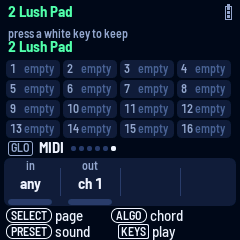
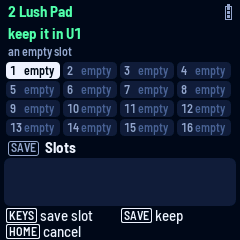
Saving to a slot in two steps: SAVE held opens the slots (the keys lit, the pick blinking), a white key picks, SAVE keeps, any other button cancels; the manual

diff --git a/app/ui.c b/app/ui.c
@@ -110,7 +110,8 @@ static struct {
     uint32_t touch_until;
     uint32_t sig[6];                     /* each band's last drawn content (a hash): drawn again only when it changed */
     uint32_t anim;                       /* the picture's last frame */
-    uint8_t save_used;                   /* SAVE held: a key took it (no save on its release) */
+    uint8_t save_used;                   /* SAVE's press already did something (no settings save on its release) */
+    uint8_t saving, save_pick;           /* the slots open (SAVE held a moment): the slot picked, 0..15 */
     uint32_t note_t;                     /* when a key last started a chord (the delay's picture) */
     uint8_t looking;                     /* REC: the Bluetooth devices' scan */
 } ui;
@@ -531,6 +532,10 @@ static void ble_device_say(void)
 
 static void button_down(int b)
 {
+    if (ui.saving && b != B_SAVE) {        /* the slots open: any other button closes them, nothing kept */
+        ui.saving = 0;
+        app_say("NOT SAVED", "");
+    }
     switch (b) {
     case B_HOME: case B_SEQ: case B_EDIT: case B_ENV: case B_LFO: case B_FX: case B_ARP: case B_GLO:
         page_button(b);
@@ -551,7 +556,14 @@ static void button_down(int b)
         break;
     case B_OCTDN: octave_step(-1); break;
     case B_OCTUP: octave_step(1); break;
-    case B_SAVE: ui.save_used = 0; break;
+    case B_SAVE:
+        ui.save_used = 0;
+        if (ui.saving) {                  /* the slots open: SAVE keeps the sound in the one picked */
+            ui.saving = 0;
+            ui.save_used = 1;
+            user_save(ui.save_pick);
+        }
+        break;
     default: break;
     }
 }
@@ -585,9 +597,14 @@ static void keys_input(void)
         uint32_t bit = 1u << k;
         if ((keys & bit) && !(ui.keys & bit)) {
             int note = key_note((int)k), v = set.velo ? (int)touch_vel(k) : 100, w = white_index((int)k);
-            if ((ui.btn >> B_SAVE & 1u) && w >= 0) {   /* SAVE held + white key: keep the sound there */
-                ui.save_used = 1;
-                user_save(w);
+            if (ui.saving) {               /* the slots open: a white key picks its slot (the keys don't play) */
+                if (w >= 0) {
+                    char t[8];
+                    ui.save_pick = (uint8_t)w;
+                    t[0] = 0;
+                    num_i(w + 1, s_cat(t, "U"));
+                    app_say("SLOT", t);
+                }
                 ui.key_note[k] = 0xFF;
                 continue;
             }
@@ -634,6 +651,18 @@ static void input(void)
         }
     }
     ui.btn = btn;
+    if (!ui.saving && (btn >> B_SAVE & 1u) && ui.btn_t[B_SAVE] && now - ui.btn_t[B_SAVE] >= 400u && !ui.save_used) {
+        ui.saving = 1;                     /* SAVE held: the slots open, on the sound's own or the first empty one */
+        ui.save_used = 1;                  /* (letting go of SAVE now saves nothing) */
+        ui.save_pick = 0;
+        if (set.sound >= SND_USER)
+            ui.save_pick = (uint8_t)(set.sound - SND_USER);
+        else
+            for (int i = NUSER - 1; i >= 0; i--)
+                if (!user_used(i))
+                    ui.save_pick = (uint8_t)i;
+        app_say("PICK A SLOT", "then press SAVE");
+    }
     /* a button held alone a second: its card (REC: Bluetooth off or on) */
     for (int b = 0; b < NB; b++)
         if ((btn >> b & 1u) && ui.btn_t[b] && now - ui.btn_t[b] >= 1000u && !ui.keys && !(btn & ~(1u << b))) {
@@ -726,8 +755,19 @@ static void input(void)
             if (n >= 0 && k >= 0 && k < NKEYS && chd_level[i] > 20)
                 lk |= 1u << k;
         }
+        if (ui.saving) {                   /* the slots: lit where a sound is kept, the one picked blinking */
+            static const uint8_t WK[16] = PLAT_WHITE_KEYS;
+            lk = 0;
+            for (int i = 0; i < NUSER; i++)
+                if ((user_used(i) && i != ui.save_pick) || (i == ui.save_pick && (now / 150u) % 2u == 0u))
+                    lk |= 1u << WK[i];
+            lb = 1u << B_SAVE;
+            plat_glow(0);
+            plat_leds(lb, lk);
+        } else {
         plat_glow(set.lights == 0);
         plat_leds(set.lights == 2 ? 0u : lb, set.lights == 2 ? ui.keys : lk);
+        }
     }
 }
 
@@ -845,10 +885,11 @@ static void draw_header(void)
 /* the title strip, over the knobs: the button, the page's name, a dot for each of the button's pages (this one lit) */
 static void draw_title(void)
 {
-    const char *bn = ui.list ? "SEL" : BTN_LABEL[PAGE[ui.page].btn];
-    int first, n = page_n(PAGE[ui.page].btn, &first);
+    const char *bn = ui.saving ? "SAVE" : ui.list ? "SEL" : BTN_LABEL[PAGE[ui.page].btn];
+    const char *pn = ui.saving ? "Slots" : PAGE[ui.page].name;
+    int first, n = ui.saving ? 0 : page_n(PAGE[ui.page].btn, &first);
     int32_t w = text_w(&FONT_XS, bn) + 6, x;
-    uint32_t h = hash_u(0x7171u, (uint32_t)ui.page | (uint32_t)ui.list << 8);
+    uint32_t h = hash_u(0x7171u, (uint32_t)ui.page | (uint32_t)ui.list << 8 | (uint32_t)ui.saving << 10);
     if (h == ui.sig[3])
         return;
     ui.sig[3] = h;
@@ -856,7 +897,7 @@ static void draw_title(void)
     cv_round(8, 1, w, 15, 3, K_DIM);
     cv_round(9, 2, w - 2, 13, 2, K_BG);
     cv_text(11, cap_y(1, 15, &FONT_XS) - 1, &FONT_XS, bn, K_DIM);
-    x = cv_text(8 + w + 6, cap_y(0, TTL_H, &FONT_B) - 1, &FONT_B, PAGE[ui.page].name, K_TEXT) + 7;
+    x = cv_text(8 + w + 6, cap_y(0, TTL_H, &FONT_B) - 1, &FONT_B, pn, K_TEXT) + 7;
     for (int i = 0; n > 1 && i < n; i++)
         cv_round(x + i * 8, 6, 5, 5, 2, first + i == ui.page ? K_TEXT : K_LINE);
     cv_blit(0, TTL_Y);
@@ -868,7 +909,17 @@ static void draw_knobs(void)
     char v[4][24];
     const char *nm[4];
     int hot = plat_ms() < ui.touch_until ? ui.touched : -1, lo, hi;
-    uint32_t h = hash_u(2166136261u, (uint32_t)ui.page | (uint32_t)(hot + 1) << 8 | (uint32_t)ui.voice << 16);
+    uint32_t h = hash_u(2166136261u, (uint32_t)ui.page | (uint32_t)(hot + 1) << 8 | (uint32_t)ui.voice << 16 |
+                                     (uint32_t)ui.saving << 24);
+    if (ui.saving) {                       /* (the slots: the knobs set nothing, their panel empty) */
+        if (h != ui.sig[2]) {
+            ui.sig[2] = h;
+            cv_begin(240, KNB_H, K_BG);
+            cv_round(4, 0, 232, KNB_H - 2, 6, K_PANEL);
+            cv_blit(0, KNB_Y);
+        }
+        return;
+    }
     for (int i = 0; i < 4; i++) {
         int k = PAGE[ui.page].k[i];
         nm[i] = k == K_NONE ? 0 : knob_name(k);
@@ -947,11 +998,15 @@ static void draw_footer(void)
 {
     const char *l1[4], *l2[4];
     int pr = PAGE[ui.page].preset;
-    uint32_t h = hash_u(2166136261u, (uint32_t)ui.page | (uint32_t)ui.list << 8 | (uint32_t)(ui.card != 0) << 9);
+    uint32_t h = hash_u(2166136261u, (uint32_t)ui.page | (uint32_t)ui.list << 8 | (uint32_t)(ui.card != 0) << 9 |
+                                     (uint32_t)ui.saving << 10);
     if (h == ui.sig[4])
         return;
     ui.sig[4] = h;
-    if (ui.list == 2) {
+    if (ui.saving) {
+        l1[0] = "KEYS", l1[1] = "save slot", l1[2] = "SAVE", l1[3] = "keep";
+        l2[0] = "HOME", l2[1] = "cancel", l2[2] = 0, l2[3] = 0;
+    } else if (ui.list == 2) {
         l1[0] = "SELECT", l1[1] = "next sound", l1[2] = "KEYS", l1[3] = "play";
         l2[0] = "SEL", l2[1] = "close", l2[2] = "SAVE", l2[3] = "keep";
     } else if (ui.list) {
@@ -966,7 +1021,7 @@ static void draw_footer(void)
     }
     cv_begin(240, 32, K_BG);
     hint_line(0, l1, 2);
-    hint_line(16, l2, 2);
+    hint_line(16, l2, l2[2] ? 2 : 1);
     cv_blit(0, FOOT_Y);
 }
 
@@ -1746,28 +1801,33 @@ static void draw_card(void)
 /* SAVE held: the 16 slots (the white keys), what each holds, and what pressing one does */
 static void draw_slots(void)
 {
-    char t[40];
-    uint32_t h = hash_u(0x5A5Eu, (uint32_t)set.sound);
+    char t[48], n[24];
+    uint32_t h = hash_u(0x5A5Eu, (uint32_t)set.sound | (uint32_t)ui.save_pick << 8);
+    int pick = ui.save_pick;
     for (int i = 0; i < NUSER; i++)
         h = hash_u(h, (uint32_t)user_used(i));
     if (h == ui.sig[1])
         return;
     ui.sig[1] = h;
     cv_begin(240, MAIN_H, K_BG);
+    t[0] = 0;                             /* (the sound is in the header: here, where it goes) */
+    num_i(pick + 1, s_cat(t, "keep it in U"));
+    text_fit(8, 2, &FONT_B, t, 224, INK[0]);
     t[0] = 0;
-    sound_name(set.sound, s_cat(t, ""));
-    cv_text(8, 2, &FONT_XS, "press a white key to keep", K_DIM);
-    text_fit(8, 15, &FONT_B, t, 224, INK[0]);
+    if (user_used(pick))
+        s_put(t, sizeof t, "replacing ", bank[pick / 8].s[pick % 8].name, 0, 0);
+    else
+        s_cat(t, "an empty slot");
+    text_fit(8, 20, &FONT_XS, t, 224, K_DIM);
     for (int i = 0; i < NUSER; i++) {
-        int32_t x = 6 + (i % 4) * 57, y = 36 + (i / 4) * 20;
-        int used = user_used(i);
-        char n[24];
-        cv_round(x, y, 54, 18, 4, used ? K_PANEL2 : K_PANEL);
+        int32_t x = 6 + (i % 4) * 57, y = 38 + (i / 4) * 19;
+        int used = user_used(i), on = i == pick;
+        cv_round(x, y, 54, 17, 4, on ? K_TEXT : used ? K_PANEL2 : K_PANEL);
         n[0] = 0;
         num_i(i + 1, n);
-        cv_text(x + 4, cap_y(y, 18, &FONT_XS), &FONT_XS, n, K_DIM);
-        text_fit(x + 18, cap_y(y, 18, &FONT_XS), &FONT_XS, used ? bank[i / 8].s[i % 8].name : "empty", 34,
-                 used ? K_TEXT : K_FAINT);
+        cv_text(x + 4, cap_y(y, 17, &FONT_XS), &FONT_XS, n, on ? K_BG : K_DIM);
+        text_fit(x + 18, cap_y(y, 17, &FONT_XS), &FONT_XS, used ? bank[i / 8].s[i % 8].name : "empty", 34,
+                 on ? K_BG : used ? K_TEXT : K_FAINT);
     }
     cv_blit(0, MAIN_Y);
 }
@@ -1775,7 +1835,7 @@ static void draw_slots(void)
 static void draw(void)
 {
     draw_header();
-    if ((ui.btn >> B_SAVE & 1u) && ui.btn_t[B_SAVE] + 250u <= plat_ms() && !ui.list) {   /* (SAVE held a moment) */
+    if (ui.saving) {                       /* the slots open */
         draw_slots();
         draw_title();
         draw_knobs();

diff --git a/app/pages.c b/app/pages.c
@@ -454,7 +454,7 @@ static const struct { uint8_t btn; const char *title, *l1, *l2; } CARD[] = {
     {B_SEL, "Lists", "Every setting of this button, the hidden ones too. On HOME, every sound.",
      "Turn SELECT to move, ALGORITHM to change it. Press SEL to leave."},
     {B_SAVE, "Save", "Tap to keep this sound and your settings for the next start.",
-     "Hold SAVE to see your 16 slots, and press a white key to keep the sound there."},
+     "Hold it to open your 16 slots, press a white key to pick one, then tap SAVE."},
     {B_PLAY, "Arp", "Press to turn the arp on or off.", 0},
     {B_REC, "Bluetooth", "Press to look for Bluetooth MIDI devices, again to connect.",
      "Hold for a second to turn Bluetooth off or on."},

diff --git a/app/app.c b/app/app.c
@@ -102,6 +102,8 @@ int app_expect(const char *what, int *got)
         *got = set.edited;
     else if (!strcmp(what, "list"))
         *got = ui.list;
+    else if (!strcmp(what, "saving"))
+        *got = ui.saving;
     else if (!strcmp(what, "card"))
         *got = ui.card;
     else if (!strcmp(what, "held"))

diff --git a/app/docs/MANUAL.md b/app/docs/MANUAL.md
@@ -128,11 +128,12 @@ found the one you want.
 Changes you make to a sound play at once. Press SAVE to keep the sound as it is now, with your settings, for the
 next time you switch on the FM-1. SAVE is lit while there are changes to save.
 
-To keep a sound in one of your own slots, hold SAVE. The screen shows your 16 slots and what each one holds. Press a
-white key, 1 to 16, to keep the sound in that slot. It then appears after the factory sounds as U1 to U16. If you let
-go of SAVE without pressing a key, nothing is kept.
+To keep a sound in one of your own slots, hold SAVE for a moment. The screen shows your 16 slots and what each one
+holds, and the white keys light up: the keys of the slots you've filled stay lit, and the slot you're on blinks.
+Press a white key to choose its slot, and the screen tells you what it would replace. Then tap SAVE to keep the sound
+there. It appears after the factory sounds as U1 to U16. To leave without keeping it, press HOME or any other button.
 
-![SAVE held: the 16 slots, with the sound to keep above them](img/screen-slots.png "Keeping a sound")
+![The slots: the one picked, what it would replace, the 16 slots below](img/screen-slots.png "Keeping a sound")
 
 ---
 
